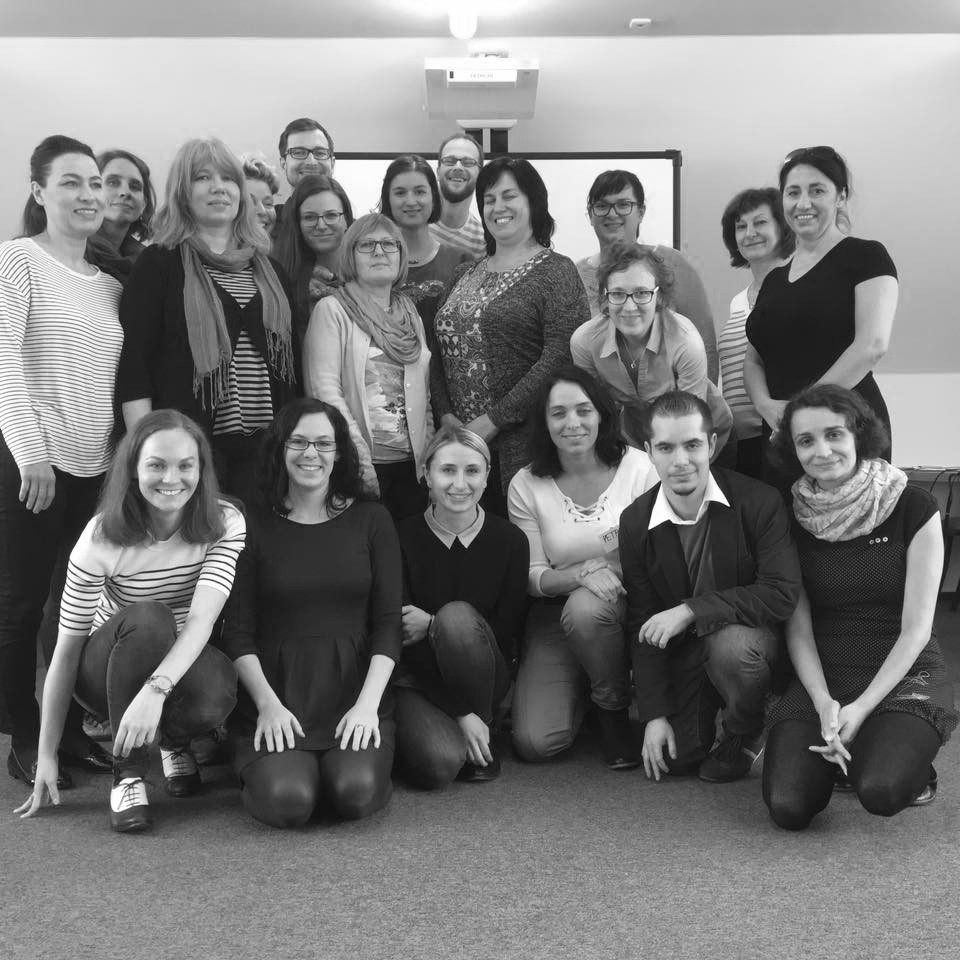
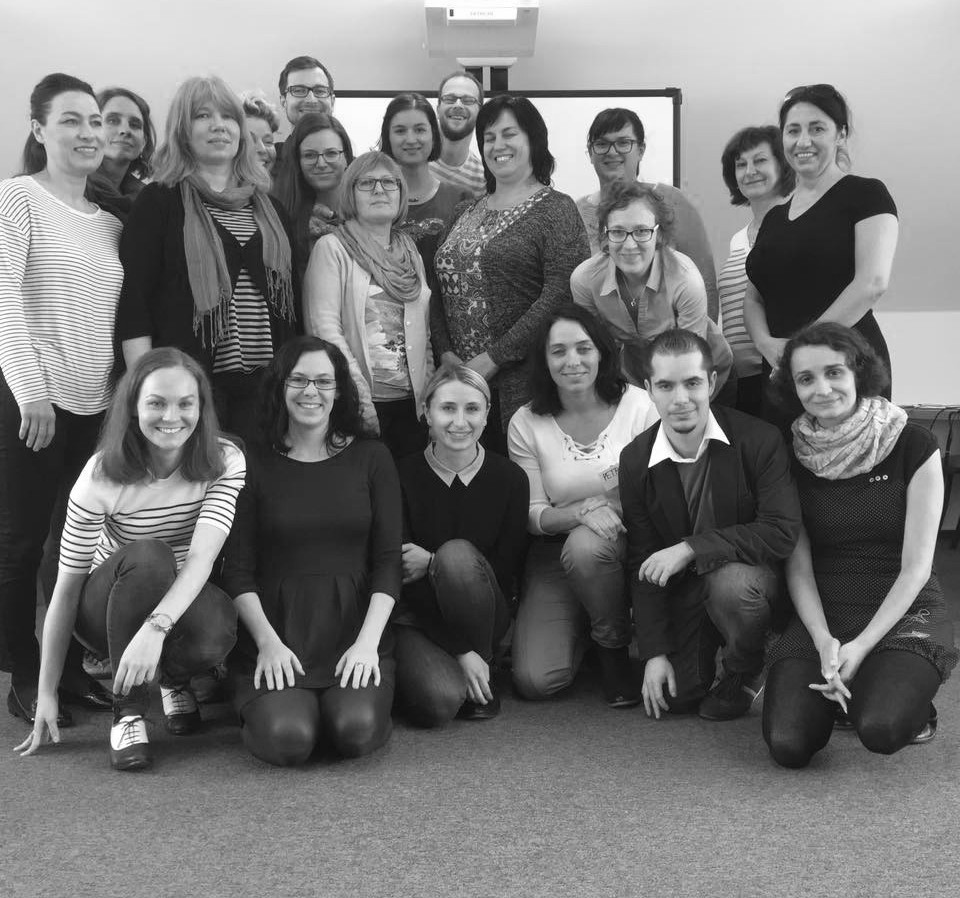
PR Akademie – obrázky, CSS

diff --git a/prakadem.ie/default.css b/prakadem.ie/default.css
@@ -350,7 +350,7 @@ ul.contact li a.icon-rss:before { background: #F2600B; }
   height: 50vh;
   margin-right: 1vw;
   background: url(images/PR_2017_final.jpg) no-repeat top;
-  background-size: cover;
+  background-size: contain;
   text-align: center;
 }
 
@@ -360,7 +360,7 @@ ul.contact li a.icon-rss:before { background: #F2600B; }
 }
 
 #featured .align-left.about {
-  background: url(images/17796085_10211246225725041_402630098325582395_n.jpg) no-repeat center;
+  background: url(images/17796085_10211246225725041_402630098325582395_n.jpg) no-repeat top;
   background-size: cover;
 }
 
